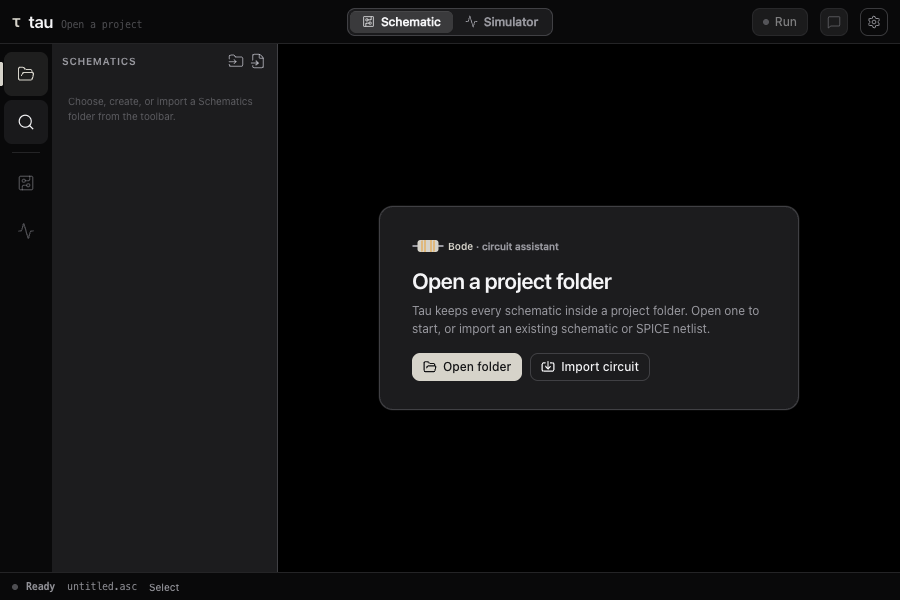
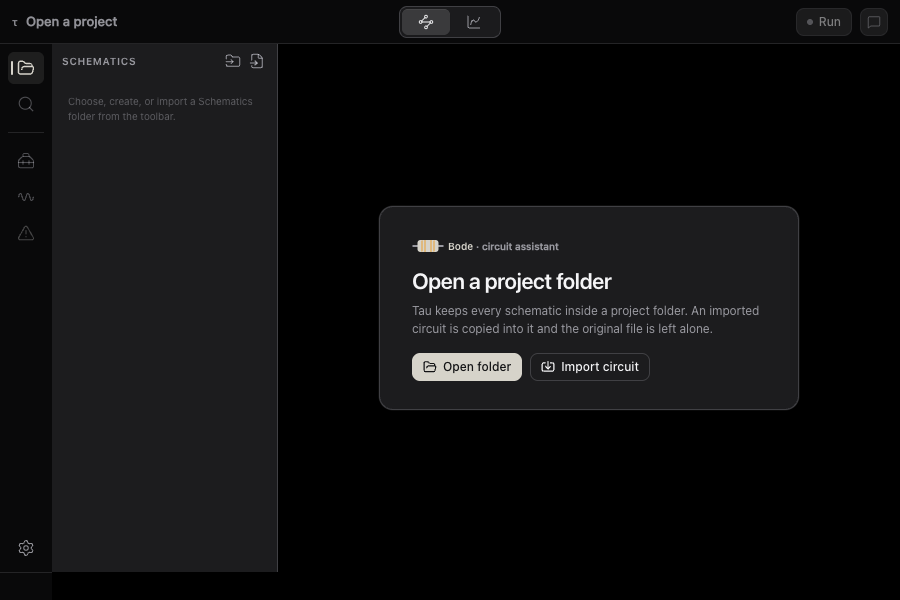
auto: close schematic ship-readiness run (§10)

diff --git a/PROGRESS.md b/PROGRESS.md
@@ -1,6 +1,6 @@
 ## HEARTBEAT
 
-**Status: IN PROGRESS - 2026-08-24 (run `schematic-ship-20260824-3`)**
+**Status: DONE - 2026-08-24 (run `schematic-ship-20260824-3`)**
 
 Unit: **Schematic ship-readiness: preventive hierarchy guidance, unmistakable
 tabs, replayable first-run tutorial, and collision-free pulse-source artwork.**
@@ -24,15 +24,61 @@ has measured artwork clearance from polarity/current marks; and the whole
 schematic surface passes minimum-window, packaged-app, regression, accessibility,
 and Sol review gates.
 
-**Landed / proof / gates:** Geometry lane `e362cbc` landed. VPULSE-to-polarity
-centerline clearance is `sqrt(29)` (~5.385), leaving 3.035 units of painted
-gap at the selected 2.35 stroke; current-pulse-to-arrow leaves 1.65 selected
-gap and remains inside the radius-15 source body. Orchestrator proof: full
-desktop suite **285 files / 5,159 passed / 9 skipped**, typecheck, and
-design-system drift clean. Guidance/tutorial/tab lane pending.
+**Landed / proof / gates:** Luna High product commits `e362cbc`, `483c7f6`,
+`225636e`, `e31e589`, and `18f1a5e` landed. The hierarchy entry now teaches
+and preflights project membership before every transient path; the five-step
+guide is versioned, replayable, focus-safe, storage-failure-safe, and opaque at
+900x600; tabs have separated cells plus ROOT/CHILD state; synchronous duplicate
+runs are admitted only once; and independent-source SVGs preserve disjoint
+strokes. Selected-stroke source-circle clearance is 1.47 units for voltage
+pulse and 1.25 for current pulse, with the plus/minus, arrow, and waveform
+relationships covered by renderer regressions.
 
-**Next step:** claim two disjoint Luna High lanes, integrate focused commits,
-then prove the result in browser and packaged desktop builds before Sol closure.
+**Proof:** desktop full suite **287 files / 5,170 passed / 9 skipped**, desktop
+typecheck, design-system drift, production web build, Rust fmt/clippy (`-D
+warnings`), and Rust tests **115 passed / 42 ignored** all passed. The strict
+minimum-window gate is **14/14 at 900x600** across light/dark, including the
+settled hierarchy guide; it now requires the status bar outside explicitly
+resting schematic captures. A fresh Tauri release produced `Tau.app` and
+`Tau_1.0.0_aarch64.dmg`; codesign verification, DMG checksum, and packaged
+ngspice smoke (**336 samples, 0..5 V**) passed. Native Computer Use verified
+the ROOT/CHILD tab cells, all five tutorial steps, explicit named-net
+Input/Output/Bidirectional surface, replay affordance, and collision-free
+VPULSE glyph. Final Sol `review-agent` verdict: **No findings.**
+
+**Next step:** proceed to the already-recorded simulation-tab remediation; the
+schematic ship-readiness unit is closed.
+
+---
+
+## 2026-08-24 - schematic ship-readiness prevention and first-use guidance
+
+**What I did:** integrated the Luna High hierarchy-guidance and source-artwork
+lanes, closed two Sol review cycles, strengthened the minimum-window gate, and
+verified the current unsigned package. First use now explains the actual
+project-sheet contract before exposing the editor; all transient callers share
+the same hierarchy prerequisite; completion can be replayed; modal focus and
+blocked storage fail safely; tabs are physical cells; and pulse-source artwork
+has geometry-level selected-stroke clearance.
+
+**Files:** `apps/desktop/src/App.tsx`,
+`apps/desktop/src/components/HierarchyGuidanceDialog.tsx`,
+`apps/desktop/src/lib/hierarchyGuidance.ts`,
+`apps/desktop/src/schematic/sourceArtworkGeometry.ts`, their focused tests,
+`apps/desktop/src/styles/hierarchyGuidance.css`, tab styles,
+`scripts/min-window-dod.mjs`, `scripts/min-window-dod.test.mjs`, and the
+both-theme minimum-window screenshots.
+
+**Tests:** desktop 5,170 passed / 9 skipped; 14/14 minimum-window captures;
+typecheck; design drift; web build; Rust fmt, clippy, and 115 tests; Tauri
+release build; codesign/DMG verification; packaged ngspice smoke; native
+Computer Use; final Sol review `No findings.`
+
+**Parity items:** closes the user-directed schematic UX unit without weakening
+recursive hierarchy or model fail-closed behavior. Named-device fidelity and
+broad differential parity remain the independent Definition-of-Done walls.
+
+**Next step:** simulation-tab remediation already documented below.
 
 ---
 

diff --git a/UI_UX_FIXES.md b/UI_UX_FIXES.md
@@ -43,15 +43,26 @@ design-system drift, web build, both-theme/minimum-window browser inspection,
 and a fresh packaged-app Computer Use pass. A Sol `review-agent` verdict of
 `No findings.` is required before DONE.
 
-### Status - IN PROGRESS
+### Status - DONE
 
-Geometry lane landed as `e362cbc`: source artwork now derives from measurable
-segments. VPULSE has 5.385 centreline / 3.035 selected-stroke clearance from
-the polarity marks; pulsed-current artwork has 4.0 centreline / 1.65 selected
-clearance from its arrow and remains inside the source body. Pins and simulation
-semantics are unchanged. Orchestrator reran the full desktop suite (5,159
-passed / 9 skipped), typecheck, and design-system drift. Guidance/tutorial/tab
-lane and packaged visual evidence remain pending.
+Luna High commits `e362cbc`, `483c7f6`, `225636e`, `e31e589`, and `18f1a5e`
+landed. Hierarchy prerequisites now guard every transient entry, the first Sheet
+interface gesture opens a five-step versioned tutorial, completion is replayable,
+and focus/storage failures are covered. Tabs use separated bordered cells with
+active and ROOT/CHILD state. Source paths preserve independent SVG strokes; the
+true plus mark and every pulse/mark combination have renderer regressions, and
+selected-stroke source-circle clearance is 1.47 units (voltage) / 1.25 units
+(current) without changing pins or simulation semantics.
+
+The final strict minimum-window gate passed **14/14 at 900x600** in light and
+dark, including tutorial persistence/replay, single-modal/focus, opaque resting
+surface, overflow, and mandatory status-bar checks outside resting schematics.
+Desktop typecheck, design drift, production web build, full frontend suite
+**5,170 passed / 9 skipped**, Rust fmt/clippy/tests, fresh Tauri app/DMG build,
+codesign, DMG checksum, and packaged ngspice smoke passed. Native Computer Use
+verified the current tabs, all five tutorial steps, explicit named-net
+Input/Output/Bidirectional editor, and VPULSE clearance. Final Sol
+`review-agent` verdict: **No findings.**
 
 ## Schematic follow-up: diagnostics, net routing, chrome, and tabs - 2026-08-24
 
